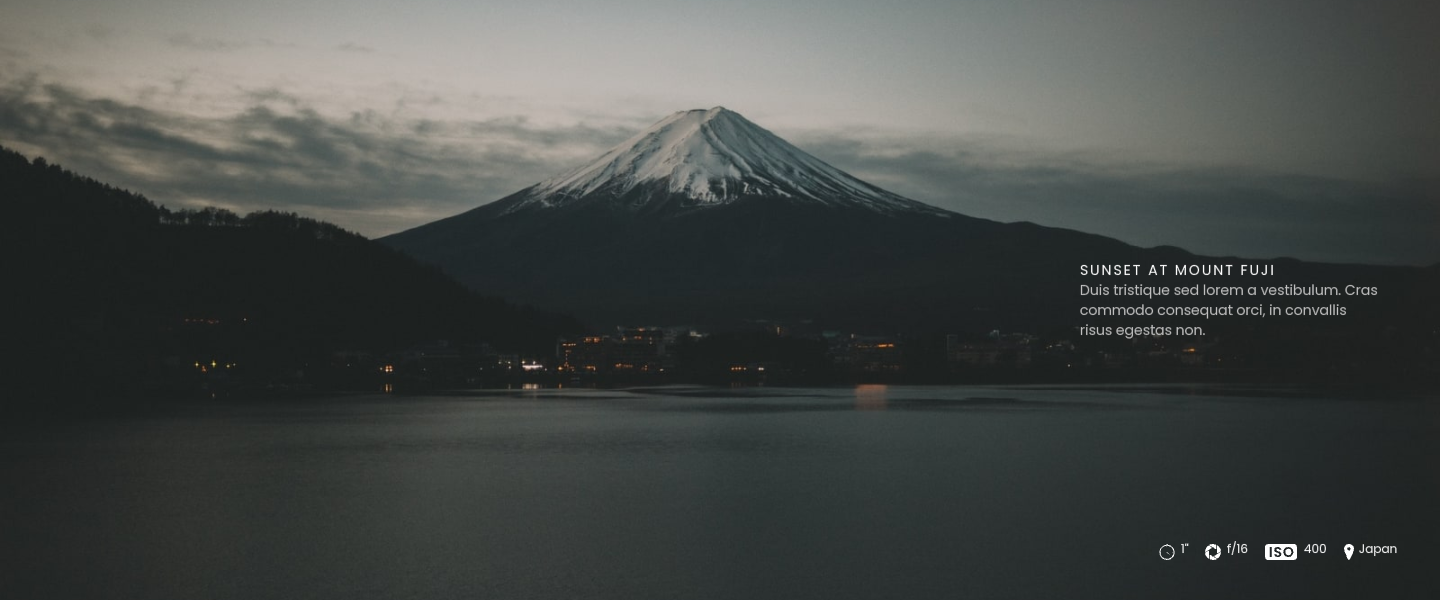
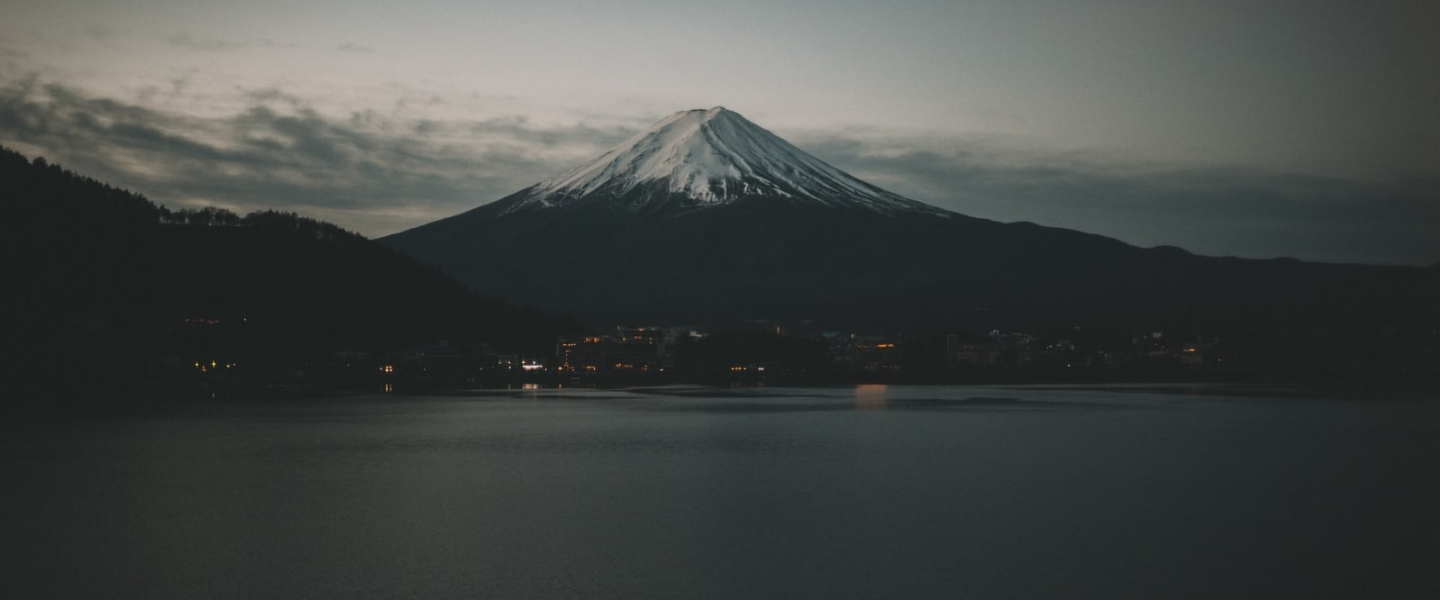
Add second bg

Changed region(s): [[0.75, 0.42, 0.9688, 0.57], [0.8125, 0.9, 0.9688, 0.93]]

diff --git a/css/style.min.css b/css/style.min.css
@@ -1,1 +1,1 @@
-body{font-family:"Poppins",sans-serif}header{background-color:#120000;color:#fff}.menu{padding:2% 0 2% 0}.menu-text{text-align:center}.menu-text a{text-decoration:none;color:#fff}.menu-text a:hover{color:#c6c4c4;border-bottom:1px solid #c6c4c4}.menu-btn a{text-decoration:none;color:#000;border:1px solid #fff;background-color:#fff;transition:250ms all;padding:9px 20px 13px 20px;border-radius:15px}.menu-btn a:hover{border:1px solid #aeadad;background-color:#aeadad;transition:250ms all}.header-logo img{padding:0 0 0 20%}main{background-color:#000}.first-bg{background-image:url("../img/FirsB.png");background-size:cover;background-position:center;height:100vh;display:flex;justify-content:center;color:#fff;text-align:center}.first-bg div h1{color:#fff;font-size:54px;text-align:center}.first-bg div p{color:silver;font-size:14px;font-weight:400;text-align:center}.first-bg .frist-bg-text{margin:29% 0 0 30%}.first-bg .Pho-text{color:silver;font-size:14px;font-weight:400}.icon{display:flex;margin:45% 0 0 8%;width:20%}.icon div{padding:5px}.Areas{margin:8% 0 0 0}.Areas-text{text-align:center;color:#fff}.Areas-text h2{font-size:40px;font-weight:400;line-height:42px}.Areas-text p{color:silver;font-size:23px;font-weight:400;margin:0 0 5% 0}.first-card{position:relative;display:inline-block}.first-card .text-overlay{position:absolute;top:75%;left:53%;transform:translate(-50%, -50%);padding:20px;font-size:10px;color:#fff}.first-card .text-overlay h2{font-size:14px;font-weight:400}.first-card .text-overlay p{font-size:14px;font-weight:400;color:silver;width:150%}.first-card img{padding:0 0 0 30%}.first-card-btn a{text-decoration:none;color:#000;border:1px solid #fff;padding:10px 20px;border-radius:15px;background-color:#fff;font-size:15px;font-weight:500}.first-card-btn{margin:10% 0 0 0}.second-card .text-overlay2{position:absolute;top:210%;left:67%;transform:translate(-50%, -50%);padding:20px;font-size:10px;color:#fff}.second-card .text-overlay2 h2{font-size:14px;font-weight:400}.second-card .text-overlay2 p{font-size:14px;font-weight:400;color:silver;width:150%}.second-card-btn a{text-decoration:none;color:#000;border:1px solid #fff;padding:10px 20px;border-radius:15px;background-color:#fff;font-size:15px;font-weight:500}.second-card-btn{margin:10% 0 0 0}.Areas-first-card{margin:0 0 2% 0}.third-card img{padding:0 0 0 30%}.third-card .text-overlay{position:absolute;top:292%;left:31%;transform:translate(-50%, -50%);padding:20px;font-size:10px;color:#fff}.third-card .text-overlay h2{font-size:14px;font-weight:400}.third-card .text-overlay p{font-size:14px;font-weight:400;color:silver;width:150%}.third-card-btn a{text-decoration:none;color:#000;border:1px solid #fff;padding:10px 20px;border-radius:15px;background-color:#fff;font-size:15px;font-weight:500}.third-card-btn{margin:8% 0 0 0}.fourth-card .text-overlay{position:absolute;top:292%;left:66%;transform:translate(-50%, -50%);padding:20px;font-size:10px;color:#fff}.fourth-card .text-overlay h2{font-size:14px;font-weight:400}.fourth-card .text-overlay p{font-size:14px;font-weight:400;color:silver;width:150%}.fourth-card-btn a{text-decoration:none;color:#000;border:1px solid #fff;padding:10px 20px;border-radius:15px;background-color:#fff;font-size:15px;font-weight:500}.fourth-card-btn{margin:8% 0 0 0}.card-text{color:silver}.fourth-card-btn a:hover{background-color:#a7a7a7;border:1px solid #a7a7a7;transition:250ms all}.first-card-btn a:hover{background-color:#a7a7a7;border:1px solid #a7a7a7;transition:250ms all}.second-card-btn a:hover{background-color:#a7a7a7;border:1px solid #a7a7a7;transition:250ms all}.third-card-btn a:hover{background-color:#a7a7a7;border:1px solid #a7a7a7;transition:250ms all}/*# sourceMappingURL=style.min.css.map */
+body{font-family:"Poppins",sans-serif}header{background-color:#120000;color:#fff}.menu{padding:2% 0 2% 0}.menu-text{text-align:center}.menu-text a{text-decoration:none;color:#fff}.menu-text a:hover{color:#c6c4c4;border-bottom:1px solid #c6c4c4}.menu-btn a{text-decoration:none;color:#000;border:1px solid #fff;background-color:#fff;transition:250ms all;padding:9px 20px 13px 20px;border-radius:15px}.menu-btn a:hover{border:1px solid #aeadad;background-color:#aeadad;transition:250ms all}.header-logo img{padding:0 0 0 20%}main{background-color:#000}.first-bg{background-image:url("../img/FirsB.png");background-size:cover;background-position:center;height:100vh;display:flex;justify-content:center;color:#fff;text-align:center}.first-bg div h1{color:#fff;font-size:54px;text-align:center}.first-bg div p{color:silver;font-size:14px;font-weight:400;text-align:center}.first-bg .frist-bg-text{margin:29% 0 0 30%}.first-bg .Pho-text{color:silver;font-size:14px;font-weight:400}.icon{display:flex;margin:45% 0 0 8%;width:20%}.icon div{padding:5px}.Areas{margin:8% 0 0 0}.Areas-text{text-align:center;color:#fff}.Areas-text h2{font-size:40px;font-weight:400;line-height:42px}.Areas-text p{color:silver;font-size:23px;font-weight:400;margin:0 0 5% 0}.first-card{position:relative;display:inline-block}.first-card .text-overlay{position:absolute;top:75%;left:53%;transform:translate(-50%, -50%);padding:20px;font-size:10px;color:#fff}.first-card .text-overlay h2{font-size:14px;font-weight:400}.first-card .text-overlay p{font-size:14px;font-weight:400;color:silver;width:150%}.first-card img{padding:0 0 0 30%}.first-card-btn a{text-decoration:none;color:#000;border:1px solid #fff;padding:10px 20px;border-radius:15px;background-color:#fff;font-size:15px;font-weight:500}.first-card-btn{margin:10% 0 0 0}.second-card .text-overlay2{position:absolute;top:210%;left:67%;transform:translate(-50%, -50%);padding:20px;font-size:10px;color:#fff}.second-card .text-overlay2 h2{font-size:14px;font-weight:400}.second-card .text-overlay2 p{font-size:14px;font-weight:400;color:silver;width:150%}.second-card-btn a{text-decoration:none;color:#000;border:1px solid #fff;padding:10px 20px;border-radius:15px;background-color:#fff;font-size:15px;font-weight:500}.second-card-btn{margin:10% 0 0 0}.Areas-first-card{margin:0 0 2% 0}.third-card img{padding:0 0 0 30%}.third-card .text-overlay{position:absolute;top:292%;left:31%;transform:translate(-50%, -50%);padding:20px;font-size:10px;color:#fff}.third-card .text-overlay h2{font-size:14px;font-weight:400}.third-card .text-overlay p{font-size:14px;font-weight:400;color:silver;width:150%}.third-card-btn a{text-decoration:none;color:#000;border:1px solid #fff;padding:10px 20px;border-radius:15px;background-color:#fff;font-size:15px;font-weight:500}.third-card-btn{margin:8% 0 0 0}.fourth-card .text-overlay{position:absolute;top:292%;left:66%;transform:translate(-50%, -50%);padding:20px;font-size:10px;color:#fff}.fourth-card .text-overlay h2{font-size:14px;font-weight:400}.fourth-card .text-overlay p{font-size:14px;font-weight:400;color:silver;width:150%}.fourth-card-btn a{text-decoration:none;color:#000;border:1px solid #fff;padding:10px 20px;border-radius:15px;background-color:#fff;font-size:15px;font-weight:500}.fourth-card-btn{margin:8% 0 0 0}.card-text{color:silver}.fourth-card-btn a:hover{background-color:#a7a7a7;border:1px solid #a7a7a7;transition:250ms all}.first-card-btn a:hover{background-color:#a7a7a7;border:1px solid #a7a7a7;transition:250ms all}.second-card-btn a:hover{background-color:#a7a7a7;border:1px solid #a7a7a7;transition:250ms all}.third-card-btn a:hover{background-color:#a7a7a7;border:1px solid #a7a7a7;transition:250ms all}.second-bg{background-image:url("../img/EVEREST.png");background-size:cover;background-position:center;height:100vh;display:flex;justify-content:center;color:#fff;text-align:center;margin:5% 0 0 0}/*# sourceMappingURL=style.min.css.map */

diff --git a/dist/css/style.min.css b/dist/css/style.min.css
@@ -1,1 +1,1 @@
-body{font-family:"Poppins",sans-serif}header{background-color:#120000;color:#fff}.menu{padding:2% 0 2% 0}.menu-text{text-align:center}.menu-text a{text-decoration:none;color:#fff}.menu-text a:hover{color:#c6c4c4;border-bottom:1px solid #c6c4c4}.menu-btn a{text-decoration:none;color:#000;border:1px solid #fff;background-color:#fff;transition:250ms all;padding:9px 20px 13px 20px;border-radius:15px}.menu-btn a:hover{border:1px solid #aeadad;background-color:#aeadad;transition:250ms all}.header-logo img{padding:0 0 0 20%}main{background-color:#000}.first-bg{background-image:url("../img/FirsB.png");background-size:cover;background-position:center;height:100vh;display:flex;justify-content:center;color:#fff;text-align:center}.first-bg div h1{color:#fff;font-size:54px;text-align:center}.first-bg div p{color:silver;font-size:14px;font-weight:400;text-align:center}.first-bg .frist-bg-text{margin:29% 0 0 30%}.first-bg .Pho-text{color:silver;font-size:14px;font-weight:400}.icon{display:flex;margin:45% 0 0 8%;width:20%}.icon div{padding:5px}.Areas{margin:8% 0 0 0}.Areas-text{text-align:center;color:#fff}.Areas-text h2{font-size:40px;font-weight:400;line-height:42px}.Areas-text p{color:silver;font-size:23px;font-weight:400;margin:0 0 5% 0}.first-card{position:relative;display:inline-block}.first-card .text-overlay{position:absolute;top:75%;left:53%;transform:translate(-50%, -50%);padding:20px;font-size:10px;color:#fff}.first-card .text-overlay h2{font-size:14px;font-weight:400}.first-card .text-overlay p{font-size:14px;font-weight:400;color:silver;width:150%}.first-card img{padding:0 0 0 30%}.first-card-btn a{text-decoration:none;color:#000;border:1px solid #fff;padding:10px 20px;border-radius:15px;background-color:#fff;font-size:15px;font-weight:500}.first-card-btn{margin:10% 0 0 0}.second-card .text-overlay2{position:absolute;top:210%;left:67%;transform:translate(-50%, -50%);padding:20px;font-size:10px;color:#fff}.second-card .text-overlay2 h2{font-size:14px;font-weight:400}.second-card .text-overlay2 p{font-size:14px;font-weight:400;color:silver;width:150%}.second-card-btn a{text-decoration:none;color:#000;border:1px solid #fff;padding:10px 20px;border-radius:15px;background-color:#fff;font-size:15px;font-weight:500}.second-card-btn{margin:10% 0 0 0}.Areas-first-card{margin:0 0 2% 0}.third-card img{padding:0 0 0 30%}.third-card .text-overlay{position:absolute;top:292%;left:31%;transform:translate(-50%, -50%);padding:20px;font-size:10px;color:#fff}.third-card .text-overlay h2{font-size:14px;font-weight:400}.third-card .text-overlay p{font-size:14px;font-weight:400;color:silver;width:150%}.third-card-btn a{text-decoration:none;color:#000;border:1px solid #fff;padding:10px 20px;border-radius:15px;background-color:#fff;font-size:15px;font-weight:500}.third-card-btn{margin:8% 0 0 0}.fourth-card .text-overlay{position:absolute;top:292%;left:66%;transform:translate(-50%, -50%);padding:20px;font-size:10px;color:#fff}.fourth-card .text-overlay h2{font-size:14px;font-weight:400}.fourth-card .text-overlay p{font-size:14px;font-weight:400;color:silver;width:150%}.fourth-card-btn a{text-decoration:none;color:#000;border:1px solid #fff;padding:10px 20px;border-radius:15px;background-color:#fff;font-size:15px;font-weight:500}.fourth-card-btn{margin:8% 0 0 0}.card-text{color:silver}.fourth-card-btn a:hover{background-color:#a7a7a7;border:1px solid #a7a7a7;transition:250ms all}.first-card-btn a:hover{background-color:#a7a7a7;border:1px solid #a7a7a7;transition:250ms all}.second-card-btn a:hover{background-color:#a7a7a7;border:1px solid #a7a7a7;transition:250ms all}.third-card-btn a:hover{background-color:#a7a7a7;border:1px solid #a7a7a7;transition:250ms all}/*# sourceMappingURL=style.min.css.map */
+body{font-family:"Poppins",sans-serif}header{background-color:#120000;color:#fff}.menu{padding:2% 0 2% 0}.menu-text{text-align:center}.menu-text a{text-decoration:none;color:#fff}.menu-text a:hover{color:#c6c4c4;border-bottom:1px solid #c6c4c4}.menu-btn a{text-decoration:none;color:#000;border:1px solid #fff;background-color:#fff;transition:250ms all;padding:9px 20px 13px 20px;border-radius:15px}.menu-btn a:hover{border:1px solid #aeadad;background-color:#aeadad;transition:250ms all}.header-logo img{padding:0 0 0 20%}main{background-color:#000}.first-bg{background-image:url("../img/FirsB.png");background-size:cover;background-position:center;height:100vh;display:flex;justify-content:center;color:#fff;text-align:center}.first-bg div h1{color:#fff;font-size:54px;text-align:center}.first-bg div p{color:silver;font-size:14px;font-weight:400;text-align:center}.first-bg .frist-bg-text{margin:29% 0 0 30%}.first-bg .Pho-text{color:silver;font-size:14px;font-weight:400}.icon{display:flex;margin:45% 0 0 8%;width:20%}.icon div{padding:5px}.Areas{margin:8% 0 0 0}.Areas-text{text-align:center;color:#fff}.Areas-text h2{font-size:40px;font-weight:400;line-height:42px}.Areas-text p{color:silver;font-size:23px;font-weight:400;margin:0 0 5% 0}.first-card{position:relative;display:inline-block}.first-card .text-overlay{position:absolute;top:75%;left:53%;transform:translate(-50%, -50%);padding:20px;font-size:10px;color:#fff}.first-card .text-overlay h2{font-size:14px;font-weight:400}.first-card .text-overlay p{font-size:14px;font-weight:400;color:silver;width:150%}.first-card img{padding:0 0 0 30%}.first-card-btn a{text-decoration:none;color:#000;border:1px solid #fff;padding:10px 20px;border-radius:15px;background-color:#fff;font-size:15px;font-weight:500}.first-card-btn{margin:10% 0 0 0}.second-card .text-overlay2{position:absolute;top:210%;left:67%;transform:translate(-50%, -50%);padding:20px;font-size:10px;color:#fff}.second-card .text-overlay2 h2{font-size:14px;font-weight:400}.second-card .text-overlay2 p{font-size:14px;font-weight:400;color:silver;width:150%}.second-card-btn a{text-decoration:none;color:#000;border:1px solid #fff;padding:10px 20px;border-radius:15px;background-color:#fff;font-size:15px;font-weight:500}.second-card-btn{margin:10% 0 0 0}.Areas-first-card{margin:0 0 2% 0}.third-card img{padding:0 0 0 30%}.third-card .text-overlay{position:absolute;top:292%;left:31%;transform:translate(-50%, -50%);padding:20px;font-size:10px;color:#fff}.third-card .text-overlay h2{font-size:14px;font-weight:400}.third-card .text-overlay p{font-size:14px;font-weight:400;color:silver;width:150%}.third-card-btn a{text-decoration:none;color:#000;border:1px solid #fff;padding:10px 20px;border-radius:15px;background-color:#fff;font-size:15px;font-weight:500}.third-card-btn{margin:8% 0 0 0}.fourth-card .text-overlay{position:absolute;top:292%;left:66%;transform:translate(-50%, -50%);padding:20px;font-size:10px;color:#fff}.fourth-card .text-overlay h2{font-size:14px;font-weight:400}.fourth-card .text-overlay p{font-size:14px;font-weight:400;color:silver;width:150%}.fourth-card-btn a{text-decoration:none;color:#000;border:1px solid #fff;padding:10px 20px;border-radius:15px;background-color:#fff;font-size:15px;font-weight:500}.fourth-card-btn{margin:8% 0 0 0}.card-text{color:silver}.fourth-card-btn a:hover{background-color:#a7a7a7;border:1px solid #a7a7a7;transition:250ms all}.first-card-btn a:hover{background-color:#a7a7a7;border:1px solid #a7a7a7;transition:250ms all}.second-card-btn a:hover{background-color:#a7a7a7;border:1px solid #a7a7a7;transition:250ms all}.third-card-btn a:hover{background-color:#a7a7a7;border:1px solid #a7a7a7;transition:250ms all}.second-bg{background-image:url("../img/EVEREST.png");background-size:cover;background-position:center;height:100vh;display:flex;justify-content:center;color:#fff;text-align:center;margin:5% 0 0 0}/*# sourceMappingURL=style.min.css.map */

diff --git a/HTML/index.html b/HTML/index.html
@@ -136,6 +136,32 @@
             </div>
             
         </div>
+        <div class="container-fluid second-bg">
+            <div class="second-bg-text">
+                <h2>Sunset at Mount Fuji</h2>
+                <p>
+                    Duis tristique sed lorem a vestibulum. Cras <br>commodo consequat orci, in convallis <br> risus egestas non.
+                </p>
+            </div>
+            <div class="second-icon">
+                <div>
+                    <img src="../img/seconder.png" alt="">
+                    1"
+                </div>
+                <div>
+                    <img src="../img/F.png" alt="">
+                    f/16
+                </div>
+                <div>
+                    <img src="../img/iso.png" alt="">
+                    400
+                </div>
+                <div>
+                    <img src="../img/gps.png" alt="">
+                    Japan
+                </div>
+            </div>
+        </div>
     </main>
 </body>
 </html>

diff --git a/SASS/style.sass b/SASS/style.sass
@@ -213,3 +213,13 @@ main
     background-color: #a7a7a7
     border: 1px solid #a7a7a7
     transition: 250ms all
+.second-bg
+    background-image: url('../img/EVEREST.png')
+    background-size: cover
+    background-position: center
+    height: 100vh
+    display: flex
+    justify-content: center
+    color: white
+    text-align: center
+    margin: 5% 0 0 0
